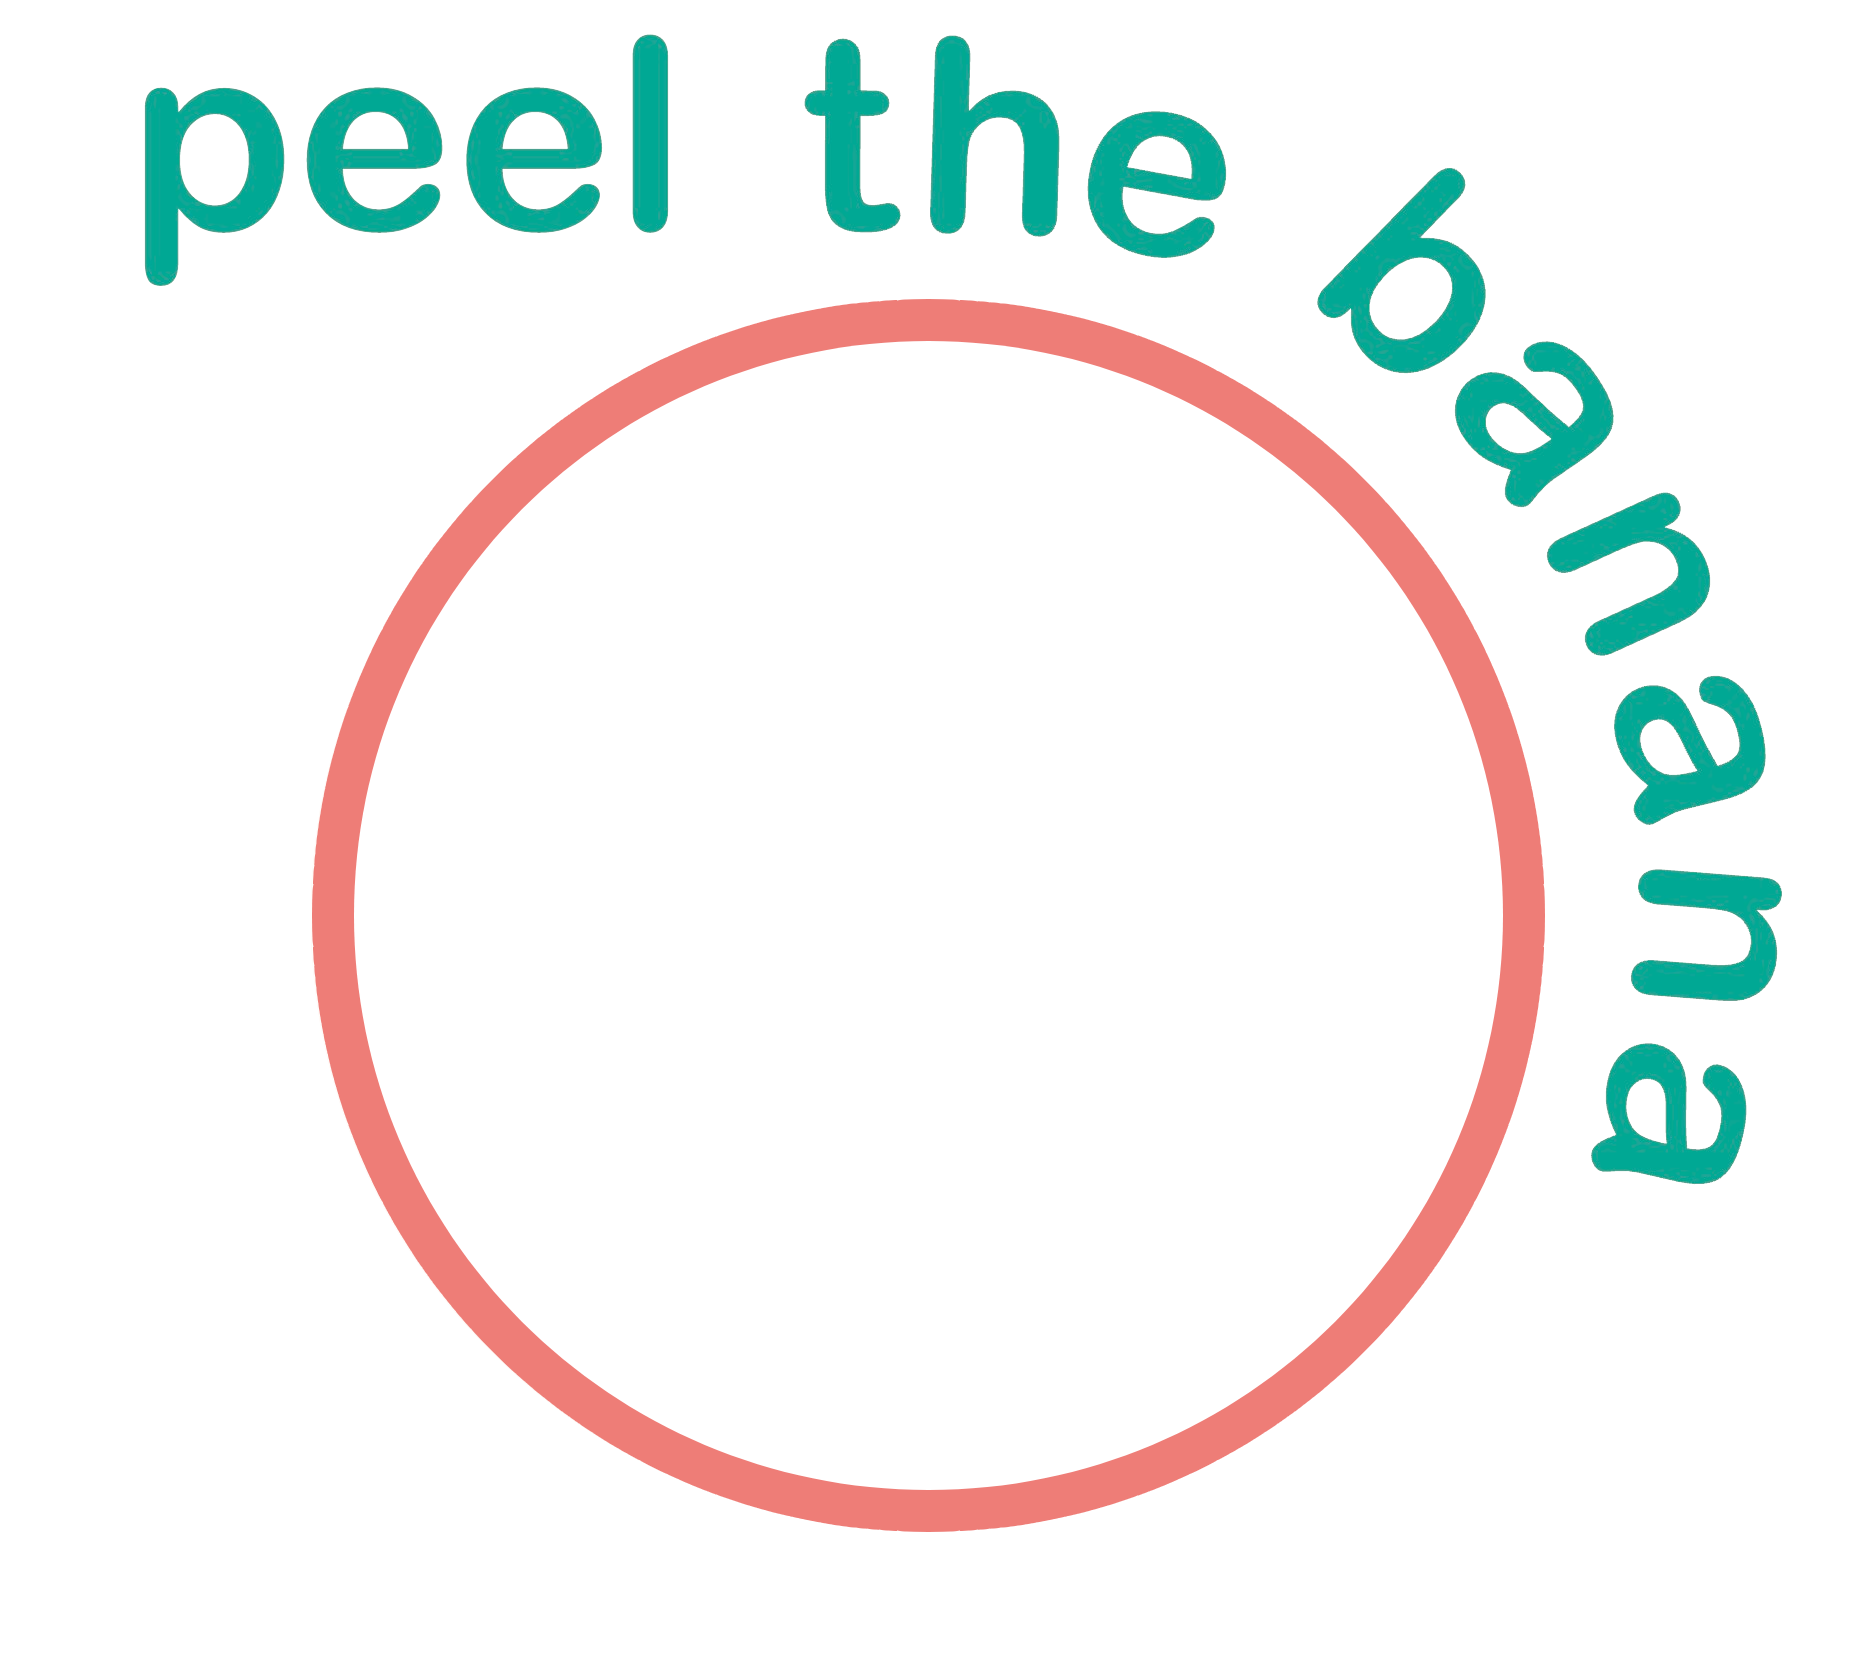
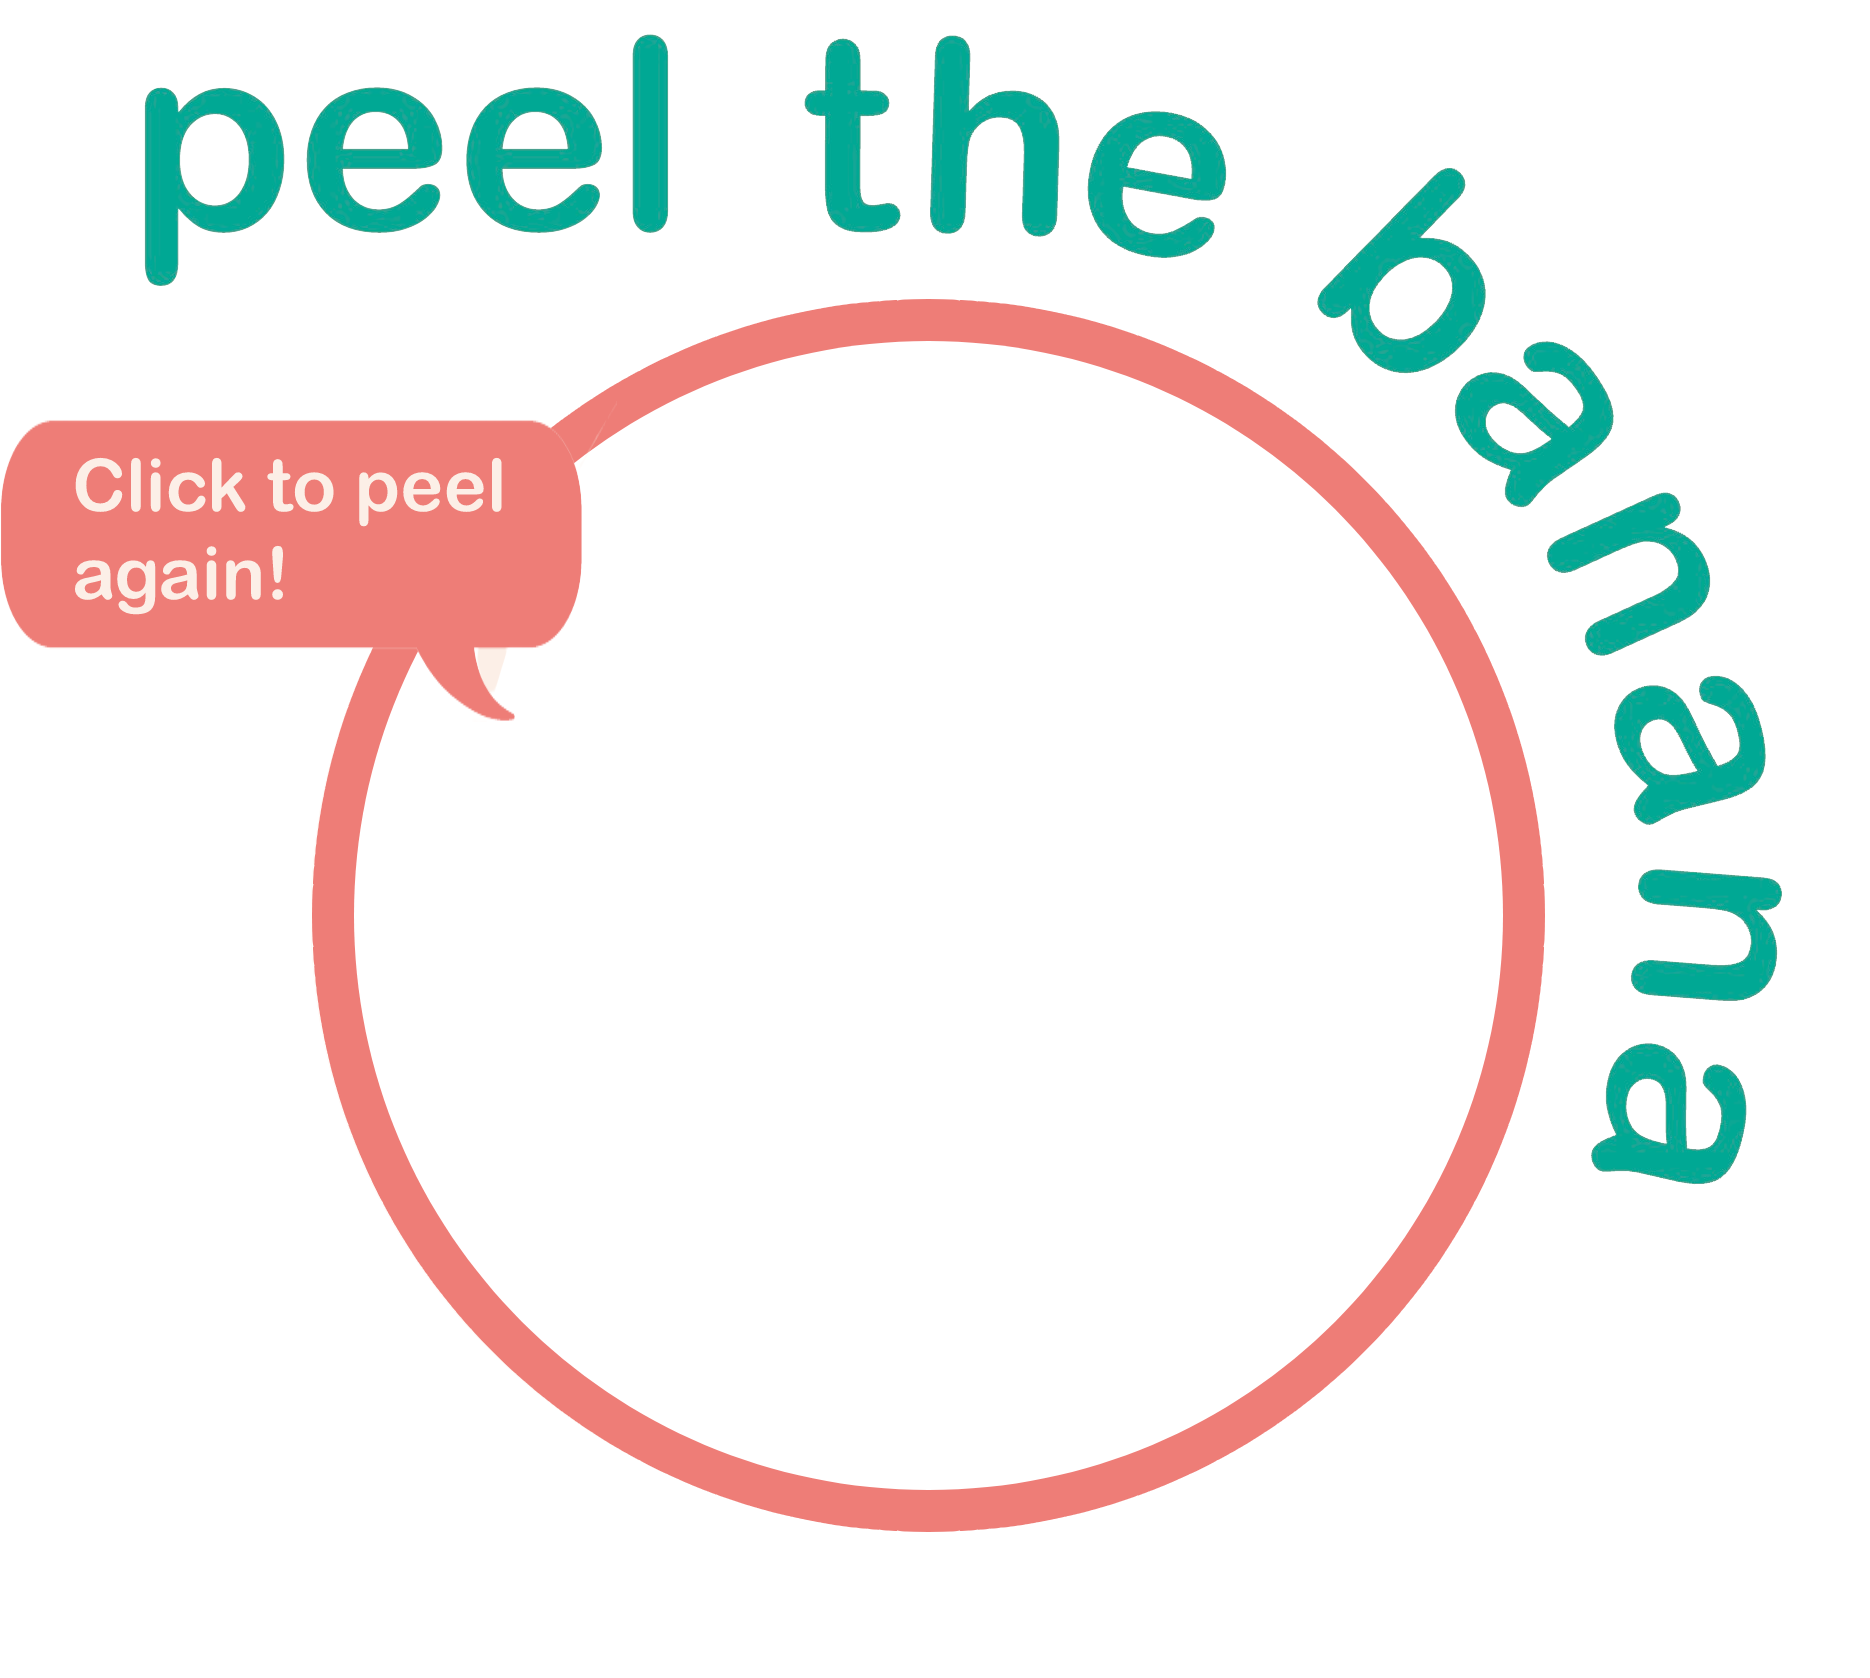
changes for dragging

Changed region(s): [[0.0, 0.2479, 0.3102, 0.4338]]

diff --git a/fp-ddai/js/script.js b/fp-ddai/js/script.js
@@ -2,6 +2,14 @@ var counter = $("#counter-number");
 var facts_learned = 0;
 var banana_stage = 1;
 
+const delta = 8;
+let startX;
+let startY;
+let diffX;
+let diffY;
+
+var required_action = 0;
+
 function new_fact(fact) {
   const fact_list = $("#fact-list");
   var new_card = $("<div></div>", {
@@ -38,13 +46,33 @@ function on_click() {
     new_fact(get_fact());
     banana_stage += 1;
     $("#title").attr("src", "images/overlay2.png");
+    required_action = 1;
   } else {
     banana_stage = 1;
     $("#title").attr("src", "images/overlay.png");
   }
   $("#banana").attr("src", "images/b" + banana_stage.toString() + ".png");
+  console.log(required_action, banana_stage);
 }
 
 $("#banana").on("click", function () {
-  on_click();
+  if (required_action && diffX < delta && diffY < delta) {
+    on_click();
+    required_action = 0;
+  }
+});
+
+$("#banana").on("mousedown", function (event) {
+  startX = event.pageX;
+  startY = event.pageY;
+});
+
+$("#banana").on("mouseup", function (event) {
+  diffX = Math.abs(event.pageX - startX);
+  diffY = Math.abs(event.pageY - startY);
+  if (!required_action) {
+    if (diffX > delta && diffY > delta) {
+      on_click();
+    }
+  }
 });

diff --git a/fp-ddai/style.css b/fp-ddai/style.css
@@ -16,8 +16,7 @@
   }
   
   h1 {
-    font-size: 30px;
-    margin-bottom: 0px;
+    font-size: 2rem;
   }
   
   p {
@@ -95,6 +94,7 @@
   counter-text {
     font-size: 3rem;
   }
+
   
   /* Right side of page */
   #right {
@@ -118,7 +118,7 @@
     width: 80%;
     border-radius: 24px;
     padding: 0 16 0 16;
-    margin-bottom: 16px;
+    margin-bottom: 12px;
     background: #ffffff;
     -webkit-user-drag: none;
     user-select: none;
